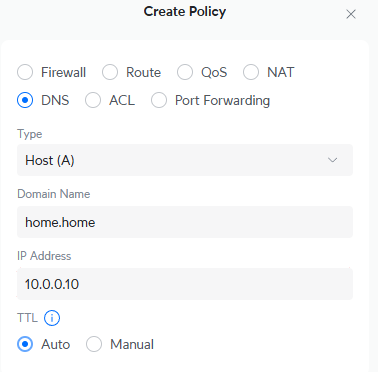
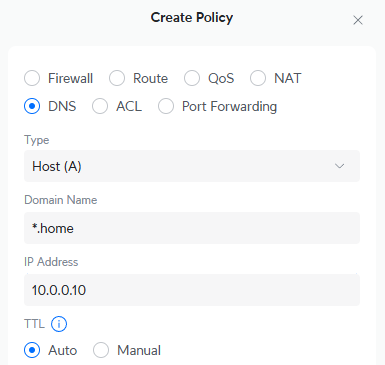
Version 2 with simplified DNS process (#2)
* Replacement A record screenshot for new wildcard method

* Corrected VI screenshot to better show where the port option is

* Updated guide with simplified DNS process.

diff --git a/UnifiReverseProxy/Readme.md b/UnifiReverseProxy/Readme.md
@@ -13,6 +13,10 @@ If you don't have a Unifi network, you might still be able to make use of this g
 
 This guide is correct as of September 2025.
 
+## Version History
+- 2025-09-03: Initial Version.
+- 2025-09-04: Simplified DNS record steps thanks to a suggestion via Reddit of using wildcard domains (thanks [Kyranak](https://www.reddit.com/r/Ubiquiti/comments/1n7htbx/comment/ncahzly/)). Cleaned up some of the language to clarify that the target of the DNS record is the reverse proxy server, which is not necessarily the same location as the target services like Plex. Made some of the screenshots clearer.
+
 ## My Requirements
 
 - If I go to `plex.home`, it should take me to Plex. If I go to `ha.home`, it should take me to Home Assistant.
@@ -27,18 +31,19 @@ This guide is correct as of September 2025.
 # Steps
 
 ## Overview
-1. Configure DNS entries in the Unifi control panel.
+1. Configure a DNS entry in the Unifi control panel.
 2. Set up Nginx Proxy Manager using Docker.
 3. Configure proxy hosts in Nginx Proxy Manager.
 4. Deal with any app specific issues with reverse proxies.
 
-This guide assumes that you want to use `.home` as the TLD for your services, such that you could have `photos.home`, `plex.home` and so on. You could use anything in theory, though I'd advise sticking to reserved TLDs like `.home` and `.local` in case you 'collide' with an actual web address.
+This guide assumes that you want to use `.home` as the TLD for your services, such that you could have `photos.home`, `plex.home` and so on. You could use anything in theory, though I'd advise sticking to reserved TLDs like `.home` and `.local` in case you 'collide' with an actual web address. Note that although `.home` is a real, reserved TLD a lot of browsers don't recognise it and assume you're searching in the address bar. To resolve, make sure you type `http://` before the URL. Or `.local` seems to be better supported, though personally I tend to avoid that one as a lot of services try to publsh their addresses as `.local` and again you could have a collision.
 
 ## 1. Configure DNS entries in the Unifi control panel
-We're going to set up a DNS 'A record', which tells Unifi how to translate a hostname into an IP, then a DNS CNAME record for each service, which redirects from the desired subdomains to the primary domain specified in the A record. You could do this entirely with A records and no CNAME records, but you would have to update _all_ the A records if the server IP ever changed- this way you only have to change one. Once this step is complete, you can go to the domains you've set up, but it'll only take you to whatever is hosted on the default Internet port, 80.
+We're going to set up a DNS 'A record', which tells Unifi how to translate a hostname into an IP, so that when you enter any `.home` address, you will be bounced to the proxy server.
 
-1. Log in to the UniFi console.
-2. Go to the settings cog, then `Policy Engine` > `Policy Table`:
+1. Decide where you are going to host the reverse proxy server (i.e. which Docker server) and make a note of its IP address. If you're a small homelab it's likely your reverse proxy server is going on the same instance as all of your other services, but it doesn't have to.
+2. Log in to the UniFi console.
+3. Go to the settings cog, then `Policy Engine` > `Policy Table`:
 
 ![A screenshot of where to find the policy engine button](Screenshots/01_Policy_Engine.png)
 
@@ -48,23 +53,11 @@ We're going to set up a DNS 'A record', which tells Unifi how to translate a hos
 
 4. Select the radio button `DNS` then enter the information as follows, then click `Add`:
     - Type: `Host (A)`.
-    - Domain Name: `home.home` (this will be the 'root' domain that everything redirects to, it could be anything but should end with .home or your chosen TLD).
-    - IP Address: `[the IP address of the server hosting your services]`.
+    - Domain Name: `*.home` (or your other chosen TLD like `*.local`).
+    - IP Address: `[the IP address you found in step 1]`.
     - TTL: `Auto`.
  
-![A screenshot showing how to add an A record in Unifi](Screenshots/04_Create_New_Policy_CNAME_Record.png)
-
-5. Click on `Creat New Policy` again, select `DNS` again and enter the information as follows, then click `Add`:
-    - Type: `Alias (CNAME)`.
-    - Alias Domain Name: `home.home` (or whatever you specified in step 4).
-    - Target Domain Name: `plex.home` (or whatever service you're looking to redirect to).
-    - TTL: `Auto`.
-
-![A screenshot showing how to add a CNAME record in Unifi](Screenshots/04_Create_New_Policy_CNAME_Record.png)
-
-6. Repeat step 5 for every service you want to add. Here's an example subset of mine:
-
-![A screenshot showing example CNAME record entries in Unifi](Screenshots/05_Example_Policies.png)
+![A screenshot showing how to add an A record in Unifi](Screenshots/03_Create_New_Policy_A_Record.png)
 
 Now if you go to any of the domains you set up, you'll bounce to whatever's hosted on that server at port 80, rather than where you'd hope. To get this working, we now need a reverse proxy.
 
@@ -75,9 +68,11 @@ This service packages up a proxy server in an idiot-proof UI, and runs on Docker
 ![A screenshot of the edits required to a Docker compose file to remap port 80](Screenshots/06_VI_Example.png)
 
 2. Follow the install guide for Nginx Proxy Manager found here: https://nginxproxymanager.com/guide/#quick-setup. You can copy/paste the suggested `docker-compose.yml` and it'll work out of the box. Personally in addition I gave the service a name so it's easier to find when doing a `docker ps`, and used real volumes over a bind mount. If you don't know what that means, ignore me.
-3. You should now have a running instance of Nginx Proxy Manager. If you go to `home.home`, you should get a holding page:
+3. You should now have a running instance of Nginx Proxy Manager. If you go to `home.home` or any other `.home` address, you should get a holding page:
 
 ![A screenshot of the Nginx Proxy Manager holding page](Screenshots/07_Holding_Page.png)
+
+This assumes you have Nginx Proxy Manager running on the same instance as your other services like Plex. If not, go to whatever the IP or hostname is of the instance you installed it on, and you'll get the same page.
 
 ## 3. Configure proxy hosts in Nginx Proxy Manager
 Now we get into the last main step, of creating the proxy hosts so that everything redirects:
@@ -104,7 +99,9 @@ Now we get into the last main step, of creating the proxy hosts so that everythi
 
 6. Now in a new browser tab, go to the URL you just created (note if you are following my example, your browser might helpfully redirect you to its search engine rather than navigate to your URL, in which case specifiy `http://` at the start. Once you do this once, you should be fine in future). You should be at the homepage of your service!
 
-7. Repeat steps 4 - 7 for any other domains you want to set up. Note some apps, like Home Assistant, don't like reverse proxies out of the box, and need additional configuration. Some examples I've encountered are listed in the section below.
+7. Repeat steps 4 - 7 for any other domains you want to set up. You might for example want to set up `proxy.home` to bounce to Nginx itself so you don't have to access it via a port, or if you had to change another service that was on port 80 to another port, now's the time to redirect it using a new domain name, for example I switched my homepage instance to `index.home`.
+  
+Note some apps, like Home Assistant, don't like reverse proxies out of the box, and need additional configuration. Some examples I've encountered are listed in the section below.
    
 # 4. Deal with any app specific issues with reverse proxies
 
@@ -166,4 +163,5 @@ At first glance it might look like Zizbee2MQTT is working out of the box, but yo
 ![A screenshot of the weird behaviour in Zigbee2MQTT](Screenshots/19_Z2MQTT.png)
 
 To resolve, enable web sockets as per the guide for Home Assistant above.
+
 
